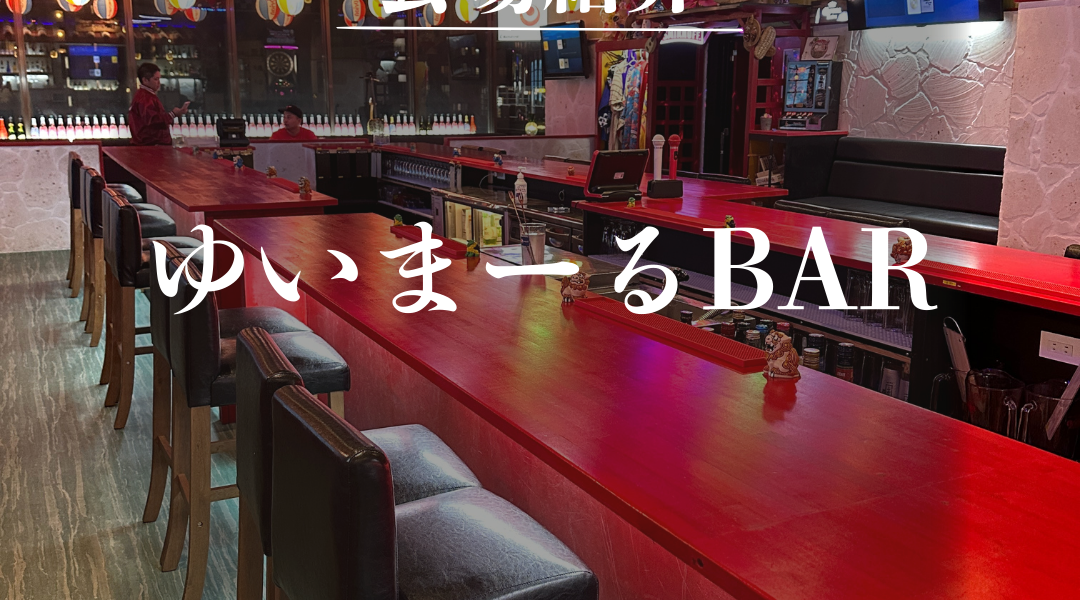
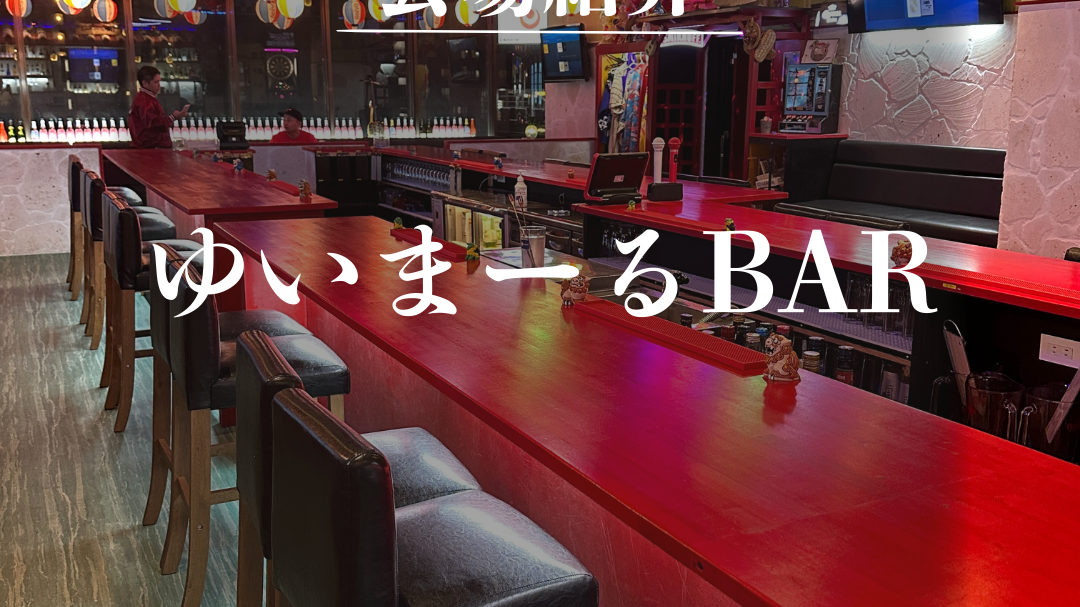
feat: PC会場一覧を2〜3カラムグリッド化＋ゆいまーる画像を16:9に最適化
- VenueListClient: space-y-4 → grid lg:grid-cols-2 xl:grid-cols-3
- yuimaru-naha-1.png: 1080x1350 → 1080x607（16:9・テキスト中央）

diff --git a/components/VenueListClient.tsx b/components/VenueListClient.tsx
@@ -189,9 +189,9 @@ export default function VenueListClient({ venues, initialArea, initialScene, ini
       )}
 
       {/* Venue grid */}
-      <div className="px-4 py-4 space-y-4">
+      <div className="px-4 py-4 grid grid-cols-1 lg:grid-cols-2 xl:grid-cols-3 gap-4">
         {filtered.length === 0 ? (
-          <div className="text-center py-16">
+          <div className="col-span-full text-center py-16">
             <p className="text-4xl mb-3">🎉</p>
             <p className="font-bold text-gray-700 mb-1">条件に合う会場が見つかりませんでした</p>
             <p className="text-sm text-gray-500 mb-4">条件を変えて再検索するか、LINEでご相談ください</p>